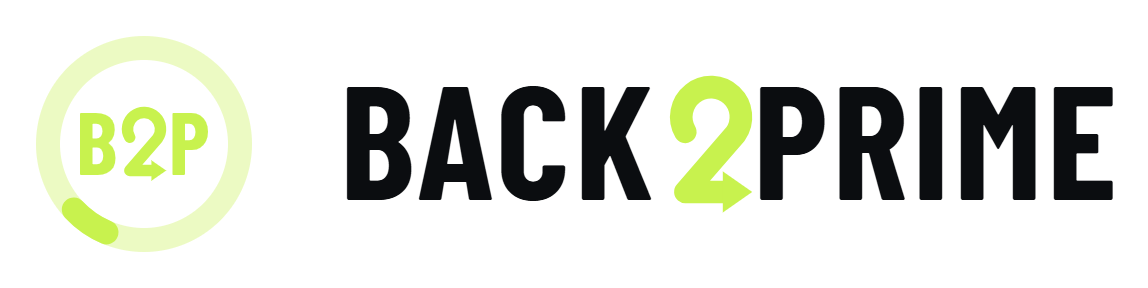
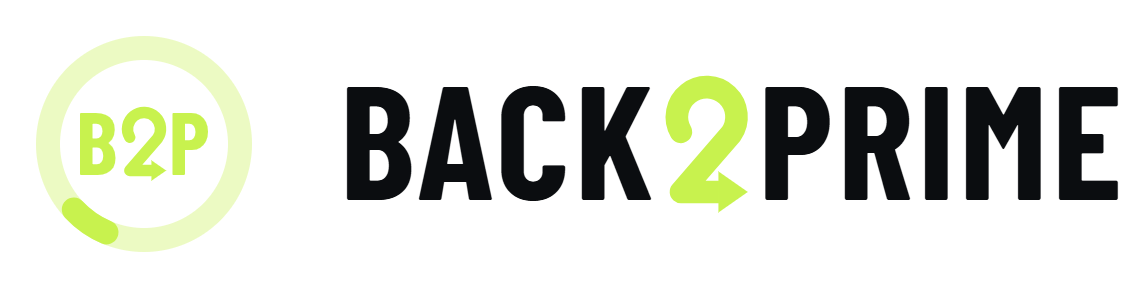
v120: BACK más cerca del 2 en el nombre
La K acaba en diagonales y deja más aire óptico que el asta de la P, así
que el 2 se veía más pegado a PRIME que a BACK. Medido con la fuente
(K .015em de margen derecho, P .043em de izquierdo): hueco izquierdo
.053em y derecho .083em, igual en la cabecera, la puerta y los
imagotipos de marca, que se regeneran con la misma regla.

Changed region(s): [[0.5793, 0.2812, 0.9756, 0.75], [0.6098, 0.25, 0.6402, 0.2812]]

diff --git a/assets/styles.css b/assets/styles.css
@@ -187,7 +187,11 @@ section.block{margin:18px 0}
    hereda el color: un 12 % más alto que las mayúsculas y con la base un pelo por
    debajo de la línea, como el 2 de antes. Las medidas van en em para que valga en
    la cabecera (21 px) y en la puerta (34 px) sin tocar nada. */
-.brand .b2,.alta-marca .b2{display:inline-block;height:.855em;width:auto;vertical-align:-.078em;margin:0 .04em;color:var(--volt)}
+/* Huecos del 2 medidos con la fuente: a la derecha .04em + el margen izquierdo de la
+   P (.043em) = .083em. A la izquierda la K termina en diagonales y deja mas aire
+   optico, asi que su hueco medido va .03em mas corto: .015 (K) + .03 (espaciado)
+   + .01 = .053em. Asi el 2 se ve igual de pegado a BACK que a PRIME. */
+.brand .b2,.alta-marca .b2{display:inline-block;height:.855em;width:auto;vertical-align:-.078em;margin:0 .04em 0 .01em;color:var(--volt)}
 .hdr-sp{flex:1}
 .chip{
   display:inline-flex;align-items:center;gap:6px;

diff --git a/sw.js b/sw.js
@@ -1,5 +1,5 @@
 /* BACK2PRIME · service worker — cache-first para funcionar sin cobertura en el gym */
-const V = 'b2p-v119';
+const V = 'b2p-v120';
 const CORE = [
   './',
   './index.html',

diff --git a/tools/marca.py b/tools/marca.py
@@ -124,8 +124,10 @@ def imagotipo(ruta, letra):
          '  <g id="isotipo">\n    ' + anillo_interior(36, 36, VOLT) + '\n  </g>\n'
          '  <g id="logotipo" fill="%s" font-size="40" class="wm">\n' % letra
          + '    <text x="85" y="50">BACK</text>\n'
-         + '    ' + dos_nombre(167.5, 50, 0.28, VOLT) + '\n'
-         + '    <text x="188.3" y="50">PRIME</text>\n'
+         # huecos como en la app (styles.css .b2): 2,1 a la izquierda (la K termina en
+         # diagonales y deja más aire óptico) y 3,3 a la derecha, a cuerpo 40
+         + '    ' + dos_nombre(166.4, 50, 0.28, VOLT) + '\n'
+         + '    <text x="189.65" y="50">PRIME</text>\n'
          '  </g>\n</svg>\n')
     escribe(ruta, t)
 

diff --git a/marca/LEEME.md b/marca/LEEME.md
@@ -39,7 +39,10 @@ Dentro del anillo el monograma mide 32 de tinta sobre los 42 interiores.
 
 En el logotipo, BACK y PRIME siguen siendo texto en Barlow Condensed 700
 (incrustada) y el 2 es el mismo trazado con el trazo 11, un pelo más compacto:
-BACK en x=85, la tinta del 2 desde 167,5 y PRIME en x=188,3.
+BACK en x=85, la tinta del 2 desde 166,4 y PRIME en x=189,65. El hueco medido a
+la izquierda del 2 es más corto que el de la derecha (2,1 frente a 3,3 a cuerpo
+40) porque la K termina en diagonales y deja más aire óptico que el asta de la P:
+son los mismos huecos que lleva la app (`styles.css`, regla `.b2`).
 
 El anillo y el destello (abajo a la izquierda, de 113° a 137° desde las 3 en
 punto, en sentido horario, como arco explícito) son idénticos a los de
